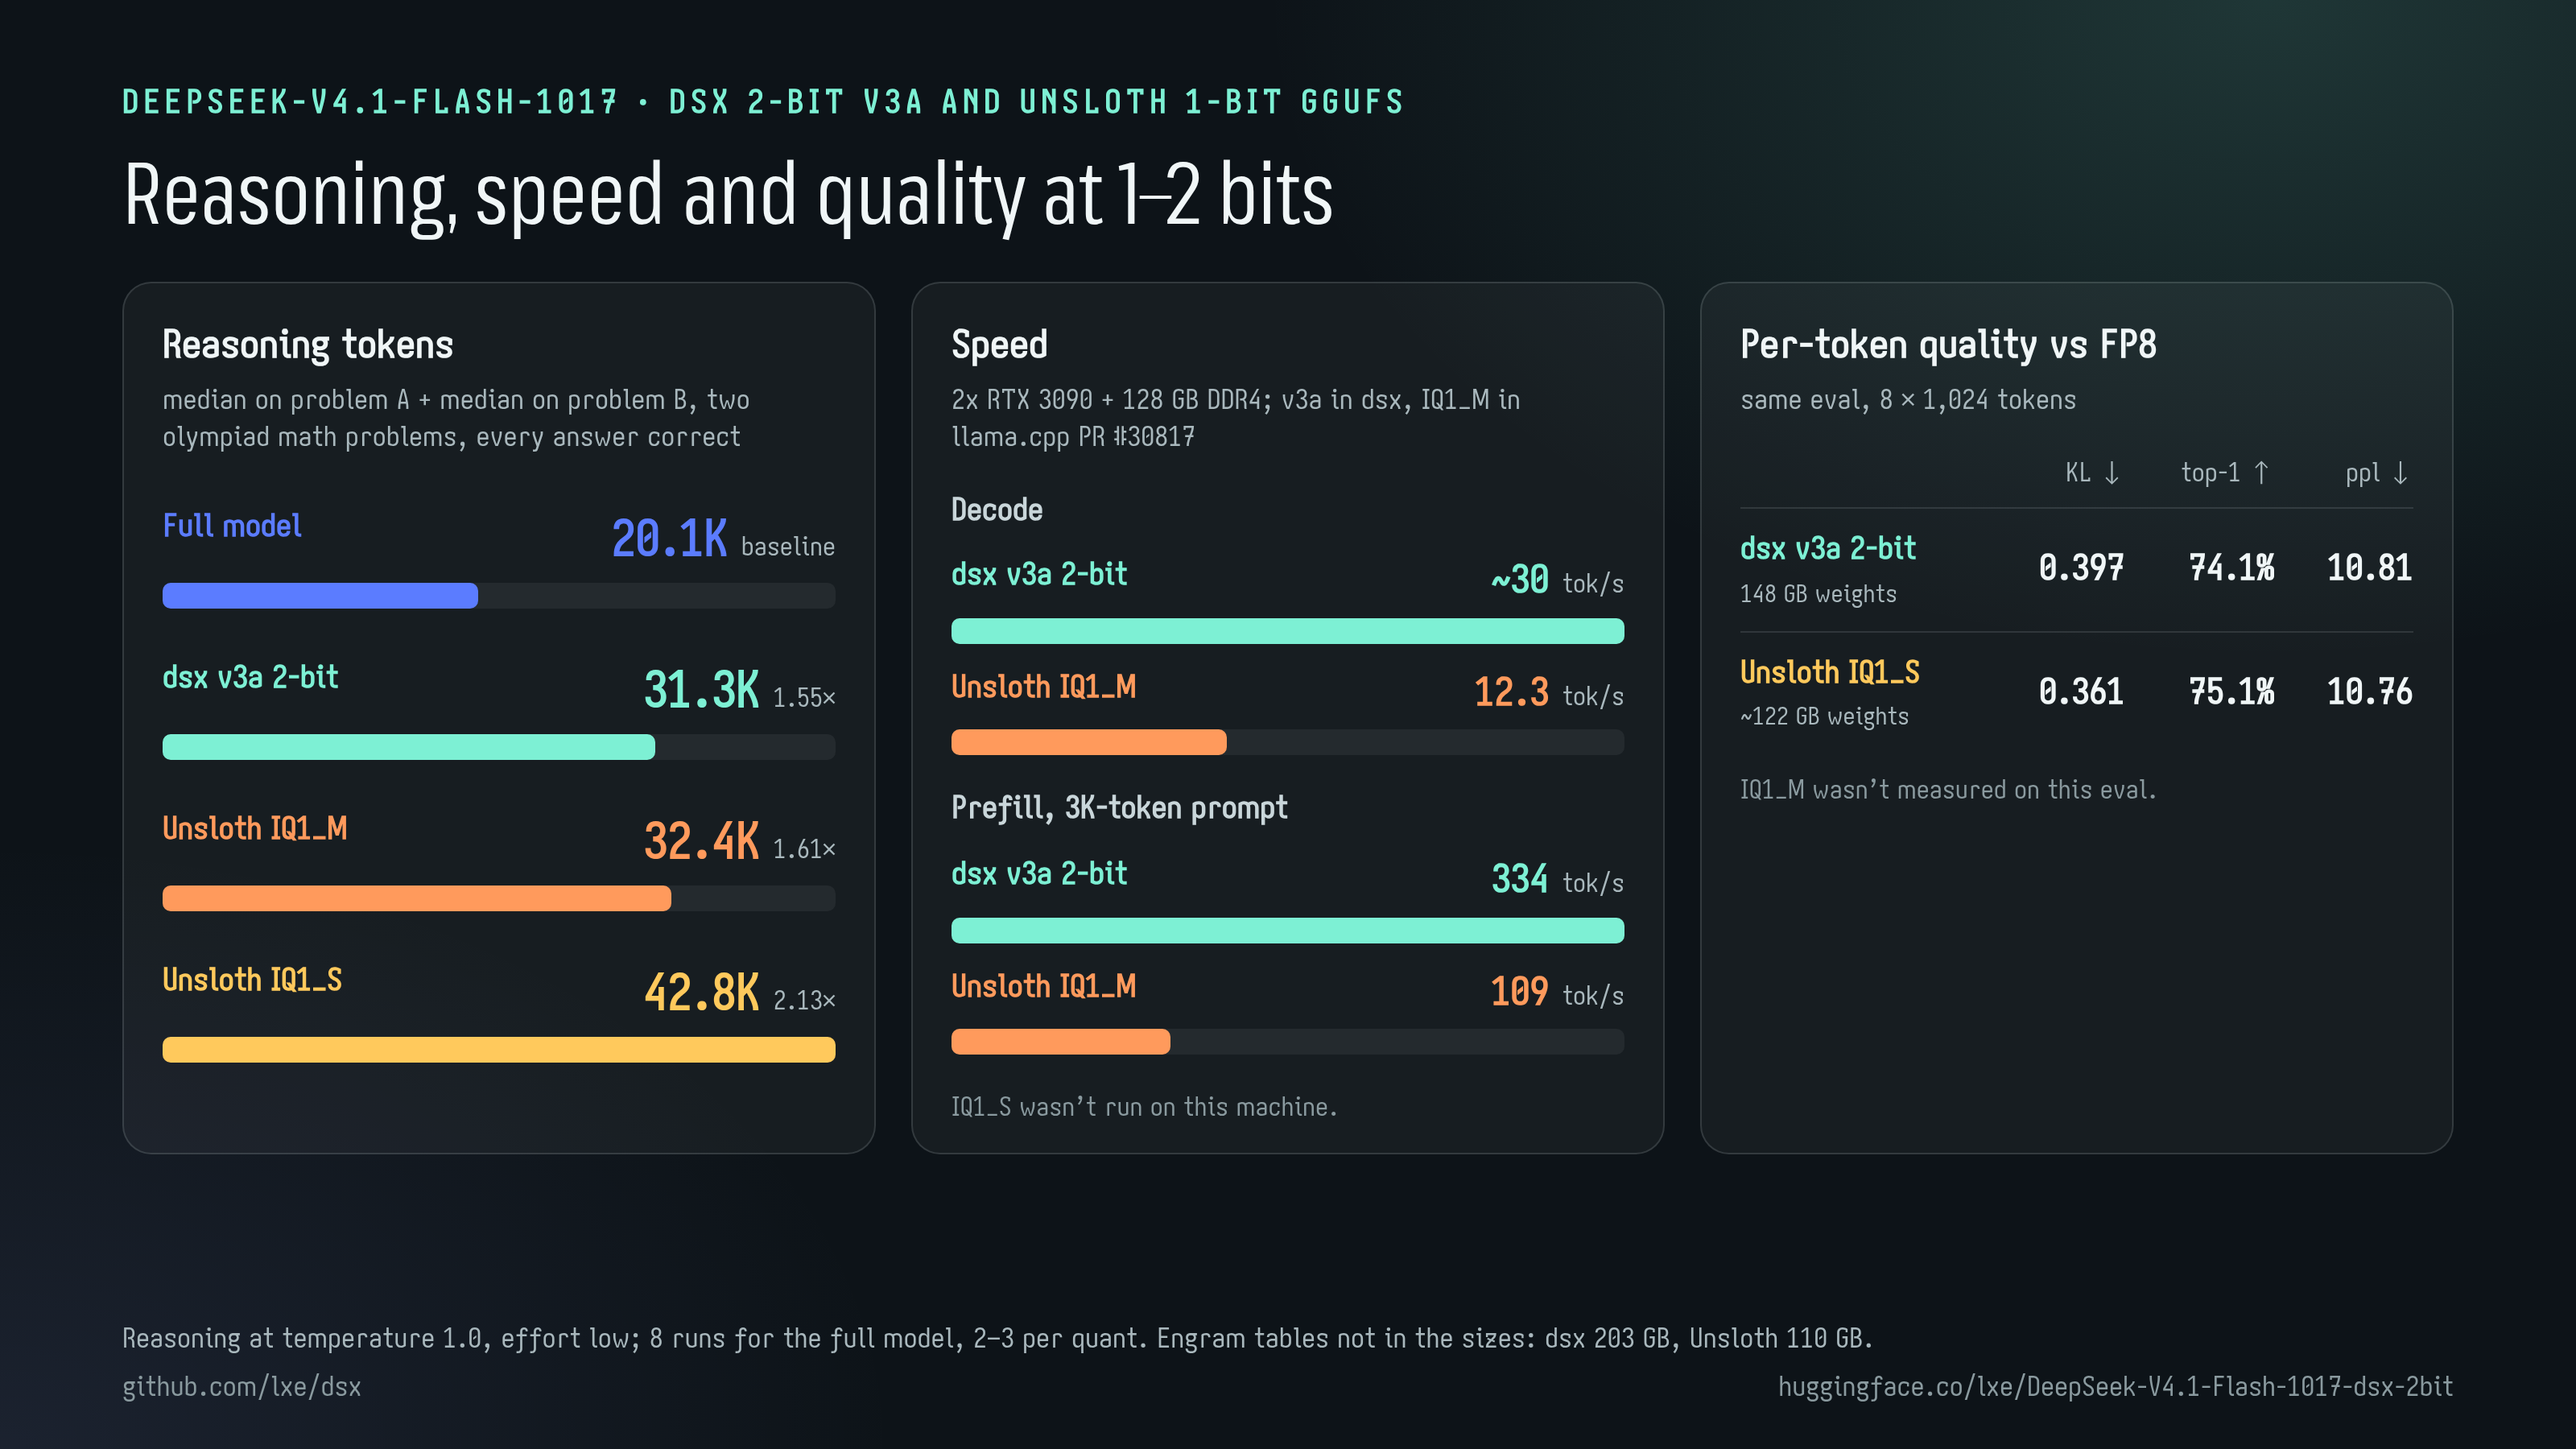
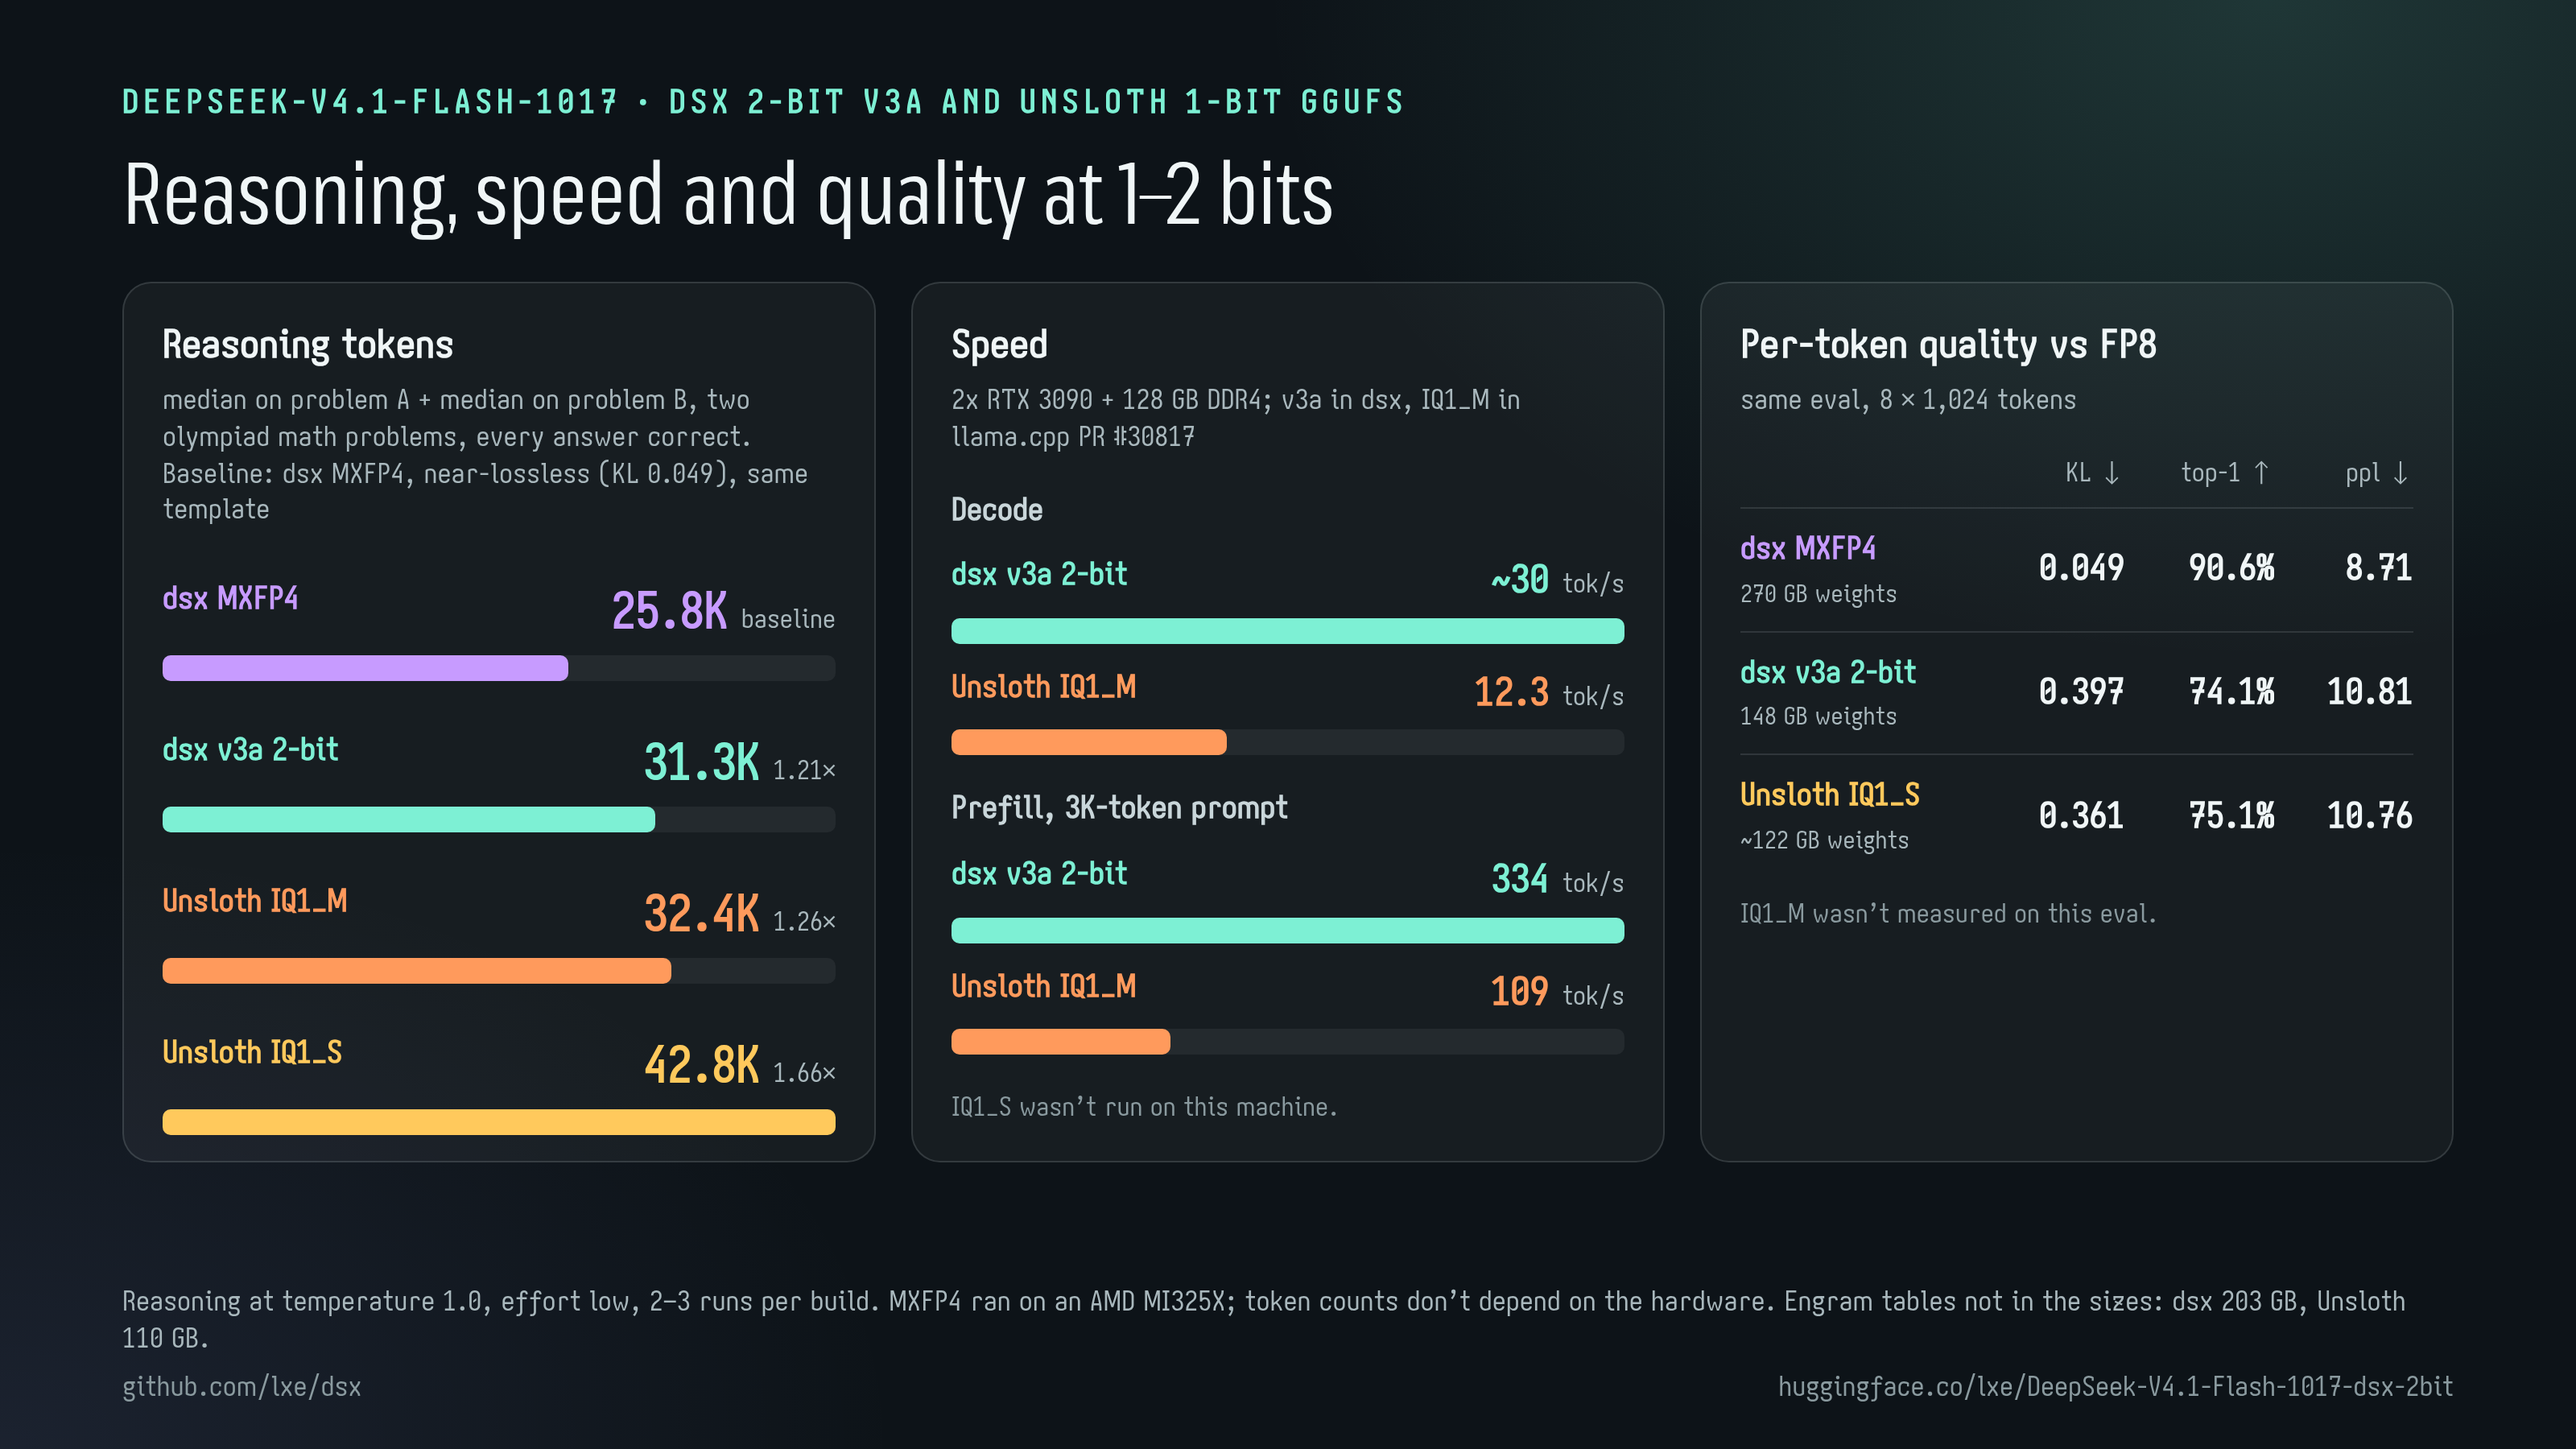
post-unsloth.png: reasoning baseline is the near-lossless dsx MXFP4 build through the same template (hosted row dropped)
Claude-Session: https://claude.ai/code/session_01GzuuXMp3vNErKy1LhAJ84w

diff --git a/cards/dsx-2bit/assets/make_charts.py b/cards/dsx-2bit/assets/make_charts.py
@@ -355,14 +355,15 @@ svg text{font-family:Num,Iosevka,ui-monospace,Menlo,monospace;fill:#f0f6f7}
 <div class=r><span>github.com/lxe/dsx</span><span>huggingface.co/lxe/DeepSeek-V4.1-Flash-1017-dsx-2bit</span></div></div>
 </div>"""
 
-UNSLOTH = {  # dsx 2-bit v3a vs Unsloth's 1-bit GGUFs; reasoning tokens per run at temperature 1.0, effort low; every run correct
+UNSLOTH = {  # dsx 2-bit v3a vs Unsloth's 1-bit GGUFs; reasoning tokens per run at temperature 1.0, effort low, one prompt template; every run correct
+    # baseline: dsx MXFP4 (near-lossless, KL 0.049), run on an MI325X; the hosted model is left out (its provider template is unverified)
     "builds": [  # key, label, colour
-        ("hosted", "Full model", "#5b7cff"), ("v3a", "dsx v3a 2-bit", "#7df0d4"),
+        ("mxfp4", "dsx MXFP4", "#c79bff"), ("v3a", "dsx v3a 2-bit", "#7df0d4"),
         ("iq1s", "Unsloth IQ1_S", "#ffc95c"), ("iq1m", "Unsloth IQ1_M", "#ff9a5c")],
     "problems": [
-        ("Problem A", {"hosted": [17426, 11069, 10465, 6371, 6799, 5665, 8426, 13485], "v3a": [10469, 10263, 15311],
+        ("Problem A", {"mxfp4": [5239, 7956, 10955], "v3a": [10469, 10263, 15311],
                        "iq1s": [10565, 19855, 13080], "iq1m": [10955, 13289]}),
-        ("Problem B", {"hosted": [12523, 7507, 11651, 9523, 8879, 13870, 9741, 12147], "v3a": [21489, 20180],
+        ("Problem B", {"mxfp4": [17866, 16374, 22216], "v3a": [21489, 20180],
                        "iq1s": [33922, 29765, 21215], "iq1m": [20319, 20270]}),
     ],
     "xmax": 36000,
@@ -370,6 +371,7 @@ UNSLOTH = {  # dsx 2-bit v3a vs Unsloth's 1-bit GGUFs; reasoning tokens per run 
     # same machine, 2x RTX 3090 + 128 GB DDR4, each build in its own runtime; IQ1_S wasn't run there
     "speed": {"v3a": ("dsx", "~30", 30, 334), "iq1m": ("llama.cpp PR #30817", "12.3", 12.3, 109), "iq1s": None},
     "quality": [  # label, colour, weights GB, KL, top-1 %, perplexity
+        ("dsx MXFP4", "#c79bff", "270", 0.049, 90.6, 8.71),
         ("dsx v3a 2-bit", "#7df0d4", "148", 0.397, 74.1, 10.81),
         ("Unsloth IQ1_S", "#ffc95c", "~122", 0.361, 75.1, 10.76),
     ],
@@ -380,11 +382,11 @@ def post_unsloth():
     import statistics
     builds = UNSLOTH["builds"]; col = {k: c for k, _, c in builds}; lab = {k: l for k, l, _ in builds}
     total = {k: sum(statistics.median(p[1][k]) for p in UNSLOTH["problems"]) for k, _, _ in builds}
-    order = ["hosted", "v3a", "iq1m", "iq1s"]
+    order = ["mxfp4", "v3a", "iq1m", "iq1s"]
     mx = max(total.values())
     reason = "".join(
         f"<div class=hb><div class=hn style='color:{col[k]}'>{lab[k]}</div><div class=ht><b style='width:{total[k] / mx * 100:.1f}%;background:{col[k]}'></b></div>"
-        f"<div class=hv><b style='color:{col[k]}'>{total[k] / 1000:.1f}K</b><span>{'baseline' if k == 'hosted' else f'{total[k] / total['hosted']:.2f}×'}</span></div></div>"
+        f"<div class=hv><b style='color:{col[k]}'>{total[k] / 1000:.1f}K</b><span>{'baseline' if k == 'mxfp4' else f'{total[k] / total['mxfp4']:.2f}×'}</span></div></div>"
         for k in order)
     def speed_rows(i, mxv):
         out = ""
@@ -424,13 +426,13 @@ table.q td:first-child{text-align:left;font-size:19px;padding-left:0} table.q td
 <div class=eyebrow>DeepSeek-V4.1-Flash-1017 · dsx 2-bit v3a and Unsloth 1-bit GGUFs</div>
 <h1>Reasoning, speed and quality at 1–2 bits</h1>
 <div class=panels>
- <div class='panel rs'><div class=ptitle>Reasoning tokens</div><div class=psub>median on problem A + median on problem B, two olympiad math problems, every answer correct</div>{reason}</div>
+ <div class='panel rs'><div class=ptitle>Reasoning tokens</div><div class=psub>median on problem A + median on problem B, two olympiad math problems, every answer correct. Baseline: dsx MXFP4, near-lossless (KL 0.049), same template</div>{reason}</div>
  <div class=panel><div class=ptitle>Speed</div><div class=psub>2x RTX 3090 + 128 GB DDR4; v3a in dsx, IQ1_M in llama.cpp PR #30817</div>
   <div class=sec>Decode</div>{speed_rows(0, 30)}<div class=sec>Prefill, 3K-token prompt</div>{speed_rows(1, 334)}<div class=qnote style='margin-top:22px'>IQ1_S wasn't run on this machine.</div></div>
  <div class=panel><div class=ptitle>Per-token quality vs FP8</div><div class=psub>same eval, 8 × 1,024 tokens</div>
   <table class=q><tr><th></th><th>KL ↓</th><th>top-1 ↑</th><th>ppl ↓</th></tr>{qrows}</table><div class=qnote>IQ1_M wasn't measured on this eval.</div></div>
 </div>
-<div class=foot><div class=note>Reasoning at temperature 1.0, effort low; 8 runs for the full model, 2–3 per quant. Engram tables not in the sizes: dsx 203 GB, Unsloth 110 GB.</div>
+<div class=foot><div class=note>Reasoning at temperature 1.0, effort low, 2–3 runs per build. MXFP4 ran on an AMD MI325X; token counts don't depend on the hardware. Engram tables not in the sizes: dsx 203 GB, Unsloth 110 GB.</div>
 <div class=r><span>github.com/lxe/dsx</span><span>huggingface.co/lxe/DeepSeek-V4.1-Flash-1017-dsx-2bit</span></div></div>
 </div>"""
 
